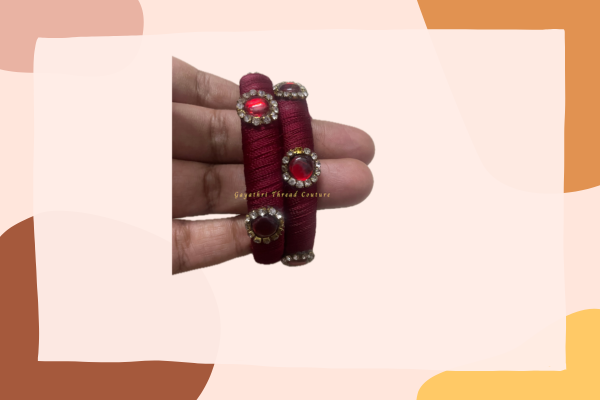
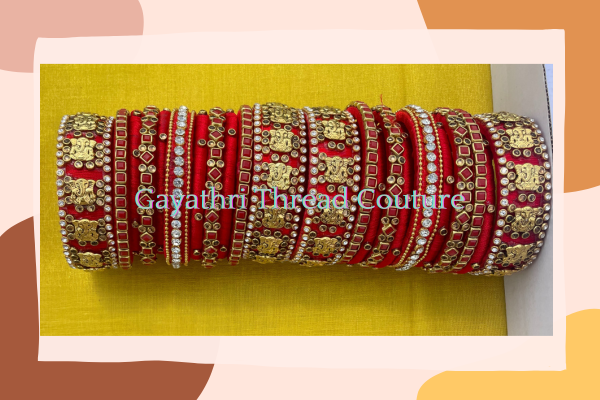
Product image update.

diff --git a/products.html b/products.html
@@ -96,11 +96,11 @@
                   <div class="gifts_section_2">
                      <div class="row">
                         <div class="col-md-6">
-                           <div class="img_5"><img src="images/product-1.png" alt="Silk Thread Bangle"></div>
+                           <div class="img_5"><img src="images/product-1.png" alt="Bridal Bangles"></div>
                            <div class="volis_main">
                               <div class="volis_2">
-                                 <h1 class="volis_text">Silk Thread Bangle</h1>
-                                 <p class="there_text">Delicately designed bangles made with vibrant silk threads. Ideal for adding a touch of color and sophistication to any outfit.</p>
+                                 <h1 class="volis_text">Bridal Bangles</h1>
+                                 <p class="there_text">Elegant and beautifully crafted bangles designed to complement the bridal attire. Perfect for adding a touch of traditional charm to wedding outfits.</p>
                               </div>
                            </div>
                         </div>
@@ -114,11 +114,11 @@
                            </div>
                         </div>
                         <div class="col-md-6">
-                           <div class="img_5"><img src="images/product-3.png" alt="Silk Thread Bangle"></div>
+                           <div class="img_5"><img src="images/product-3.png" alt="Kundan Bangle"></div>
                            <div class="volis_main">
                               <div class="volis_2">
-                                 <h1 class="volis_text">Silk Thread Bangle</h1>
-                                 <p class="there_text">Delicately designed bangles made with vibrant silk threads. Ideal for adding a touch of color and sophistication to any outfit.</p>
+                                 <h1 class="volis_text">Kundan Bangles</h1>
+                                 <p class="there_text">Exquisite bangles featuring intricate Kundan work. A stunning choice for those who appreciate classic and timeless jewelry.</p>
                               </div>
                            </div>
                         </div>

diff --git a/index.html b/index.html
@@ -228,11 +228,11 @@
                <div class="gifts_section_2">
                   <div class="row">
                      <div class="col-md-6">
-                        <div class="img_5"><img src="images/product-1.png" alt="Silk Thread Bangle"></div>
+                        <div class="img_5"><img src="images/product-1.png" alt="Bridal Bangles"></div>
                         <div class="volis_main">
                            <div class="volis_2">
-                              <h1 class="volis_text">Silk Thread Bangle</h1>
-                              <p class="there_text">Delicately designed bangles made with vibrant silk threads. Ideal for adding a touch of color and sophistication to any outfit.</p>
+                              <h1 class="volis_text">Bridal Bangles</h1>
+                              <p class="there_text">Elegant and beautifully crafted bangles designed to complement the bridal attire. Perfect for adding a touch of traditional charm to wedding outfits.</p>
                            </div>
                         </div>
                      </div>
